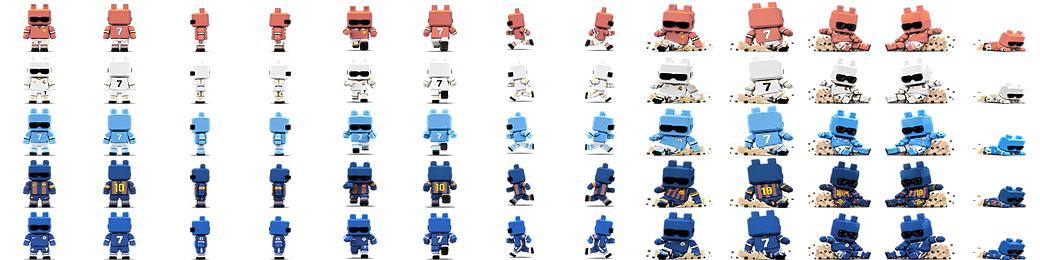
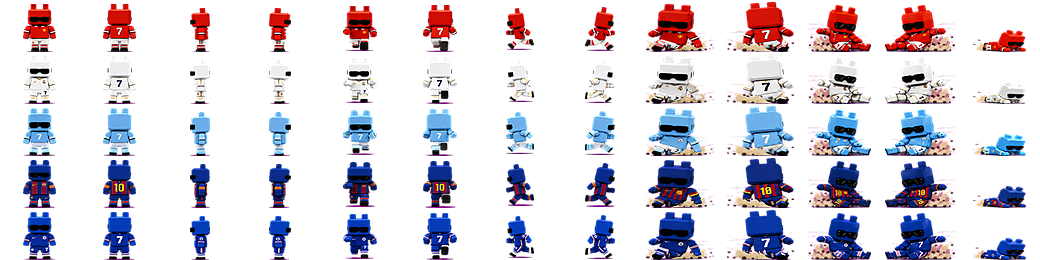
a

diff --git a/src/ui/screens/Shop.jsx b/src/ui/screens/Shop.jsx
@@ -17,6 +17,8 @@ import { SOCCER_SKINS, SOCCER_SET, PREV_IMG, PREV_FW, PREV_FH, PREV_COLS, PREV_R
 
 // 종목마다 미리보기 시트가 다르다. 한 곳에 모아 두고 하위 탭으로 고른다.
 //
+// [stated] **자르는 범위는 모든 칸의 최대치로 잡는다** — 첫 칸(대기)만 보고 잘랐더니
+// 피격 자세의 날개·반짝임이 위에서 잘렸다(총격전은 첫 칸 22px 위까지 올라간다).
 // [stated] **칸 폭으로 맞추면 안 된다** — 시트마다 칸 안에서 캐릭터가 차지하는 비율이 달라
 // 축구 세트가 개별보다 커 보였다(95px vs 84px). **캐릭터 키를 기준**으로 맞춘다.
 // `chH`/`chW` 는 시트 안 캐릭터의 실제 크기, `pad` 는 양옆에 남길 여백(시트 px)
@@ -24,9 +26,9 @@ const SHEETS = {
   soccer: { img: PREV_IMG, fw: PREV_FW, fh: PREV_FH, cols: PREV_COLS, rows: PREV_ROWS_N,
             lines: PREV_LINES, chH: 150, chW: 85, chY: 26, pad: 18 },
   gun:    { img: GUN_PREV_IMG, fw: GUN_PREV_FW, fh: GUN_PREV_FH, cols: GUN_PREV_COLS,
-            rows: GUN_PREV_ROWS_N, lines: GUN_PREV_LINES, chH: 144, chW: 139, chY: 38, pad: 18 },
+            rows: GUN_PREV_ROWS_N, lines: GUN_PREV_LINES, chH: 162, chW: 139, chY: 22, pad: 18 },
   melee:  { img: MEL_PREV_IMG, fw: MEL_PREV_FW, fh: MEL_PREV_FH, cols: MEL_PREV_COLS,
-            rows: MEL_PREV_ROWS_N, lines: MEL_PREV_LINES, chH: 171, chW: 166, chY: 21, pad: 18 }
+            rows: MEL_PREV_ROWS_N, lines: MEL_PREV_LINES, chH: 176, chW: 166, chY: 17, pad: 18 }
 };
 // 화면에 그릴 캐릭터 키 (px). 개별 상품과 세트를 각각 하나로 통일한다
 // [stated] **상품이 커서 화면에 안 담긴다** (브라우저 주소창까지 있으면 더 짧다) → 줄인다

diff --git a/src/game/render.js b/src/game/render.js
@@ -178,7 +178,9 @@ export function createRenderer(canvas){
       const sz = (k % 2 === 0) ? 2 : 1;
       px(x + hx - 1 + dir[k][0] * r, y + hy + dir[k][1] * r, sz, sz, c);
     }
-    px(x + hx - 2, y + hy - 1, 4, 4, '#ffffff');
+    // [stated] 가운데 **흰 4x4 사각형은 없앤다.** 기본 캐릭터는 피격 순간 통째로 하얘져서
+    // 이게 묻혀 안 보였는데, **스킨은 하얘지지 않아 사각형만 튀어 보였다**.
+    // 기본에서도 원래 안 보이던 것이라 지워도 달라지는 게 없다
   }
   // **화면에 쓸 색을 한 곳에서 정한다.** 네 군데가 각자 계산하면 총알과 캐릭터 색이
   // 어긋난다. 1대1·개인전은 겹치는 색을 여기서 갈라 준다(판정과 무관)
